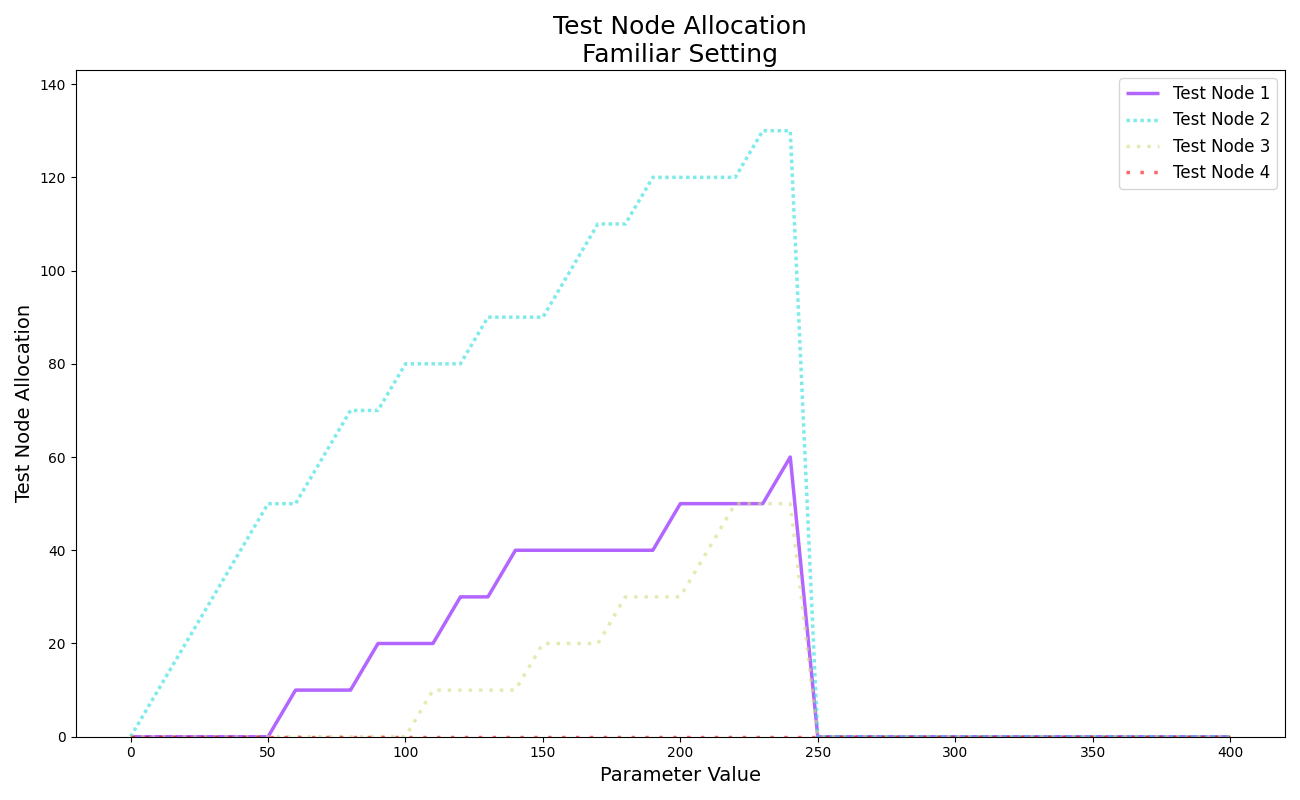
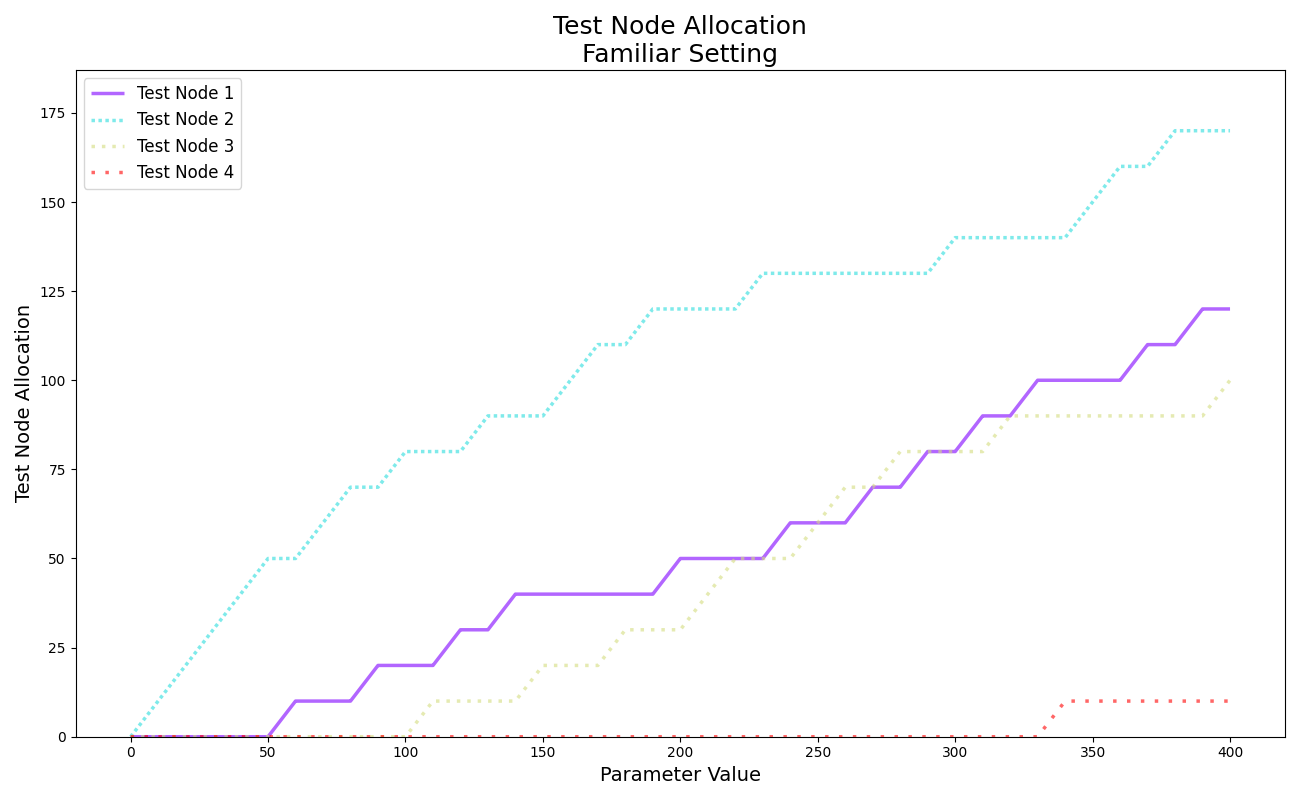
MS update

diff --git a/CASESTUDY_MStable.py b/CASESTUDY_MStable.py
@@ -244,7 +244,7 @@ print('Saved vs Rudi at 90: '+str(rudi90saved))
 print('Saved vs Unif at 180: '+str(unif180saved))
 print('Saved vs Rudi at 180: '+str(rudi180saved))
 
-# Prior variance: 4
+# Prior variance: 1
 fam_MS_alloc = np.load(os.path.join('casestudyoutputs', '15JUN', 'expl_MS_priorvar_1_alloc.npy'))
 fam_MS_util_avg = np.load(os.path.join('casestudyoutputs', '15JUN', 'expl_MS_priorvar_1_util_avg.npy'))
 util_avg_rudi_90 = np.load(os.path.join('casestudyoutputs', '15JUN', 'expl_MS_priorvar_1_util_avg_rudi_90.npy'))
@@ -269,6 +269,34 @@ print('Prior variance of 1, allocation at 90:\n'+str(fam_MS_alloc[:,9]))
 print('Saved vs Unif at 90: '+str(unif90saved))
 print('Saved vs Rudi at 90: '+str(rudi90saved))
 print('Prior variance of 1, allocation at 180:\n'+str(fam_MS_alloc[:,18]))
+print('Saved vs Unif at 180: '+str(unif180saved))
+print('Saved vs Rudi at 180: '+str(rudi180saved))
+
+# Prior variance: 4
+fam_MS_alloc = np.load(os.path.join('casestudyoutputs', '15JUN', 'expl_MS_priorvar_4_alloc.npy'))
+fam_MS_util_avg = np.load(os.path.join('casestudyoutputs', '15JUN', 'expl_MS_priorvar_4_util_avg.npy'))
+util_avg_rudi_90 = np.load(os.path.join('casestudyoutputs', '15JUN', 'expl_MS_priorvar_4_util_avg_rudi_90.npy'))
+util_avg_rudi_180 = np.load(os.path.join('casestudyoutputs', '15JUN', 'expl_MS_priorvar_4_util_avg_rudi_180.npy'))
+util_avg_unif_90 = np.load(os.path.join('casestudyoutputs', '15JUN', 'expl_MS_priorvar_4_util_avg_unif_90.npy'))
+util_avg_unif_180 = np.load(os.path.join('casestudyoutputs', '15JUN', 'expl_MS_priorvar_4_util_avg_unif_180.npy'))
+alloc90 = fam_MS_util_avg[9]
+alloc180 = fam_MS_util_avg[18]
+kInd = next(x for x, val in enumerate(util_avg_unif_90) if val > alloc90)
+unif90saved = round((alloc90 - util_avg_unif_90[kInd - 1]) / (util_avg_unif_90[kInd] - util_avg_unif_90[kInd - 1]) *\
+                    testint) + (kInd - 1) * testint
+kInd = next(x for x, val in enumerate(util_avg_unif_180) if val > alloc180)
+unif180saved = round((alloc180 - util_avg_unif_180[kInd-1]) / (util_avg_unif_180[kInd]-util_avg_unif_180[kInd - 1]) *\
+                    testint) + (kInd - 1) * testint
+kInd = next(x for x, val in enumerate(util_avg_rudi_90) if val > alloc90)
+rudi90saved = round((alloc90 - util_avg_rudi_90[kInd - 1]) / (util_avg_rudi_90[kInd] - util_avg_rudi_90[kInd - 1]) *\
+                    testint*5) + (kInd - 1) * testint*5
+kInd = next(x for x, val in enumerate(util_avg_rudi_180) if val > alloc180)
+rudi180saved = round((alloc180 - util_avg_rudi_180[kInd-1]) / (util_avg_rudi_180[kInd]-util_avg_rudi_180[kInd - 1]) *\
+                    testint*5) + (kInd - 1) * testint*5
+print('Prior variance of 4, allocation at 90:\n'+str(fam_MS_alloc[:,9]))
+print('Saved vs Unif at 90: '+str(unif90saved))
+print('Saved vs Rudi at 90: '+str(rudi90saved))
+print('Prior variance of 4, allocation at 180:\n'+str(fam_MS_alloc[:,18]))
 print('Saved vs Unif at 180: '+str(unif180saved))
 print('Saved vs Rudi at 180: '+str(rudi180saved))
 

diff --git a/CASESTUDY_modsens_fam_priorvar.py b/CASESTUDY_modsens_fam_priorvar.py
@@ -73,15 +73,15 @@ util.print_param_checks(paramdict) # Check of used parameters
 
 alloc, util_avg, util_hi, util_lo = sampf.get_greedy_allocation(csdict_fam, testmax, testint, paramdict, printupdate=True,
                                                                 plotupdate=False)
-'''
+''' 21-JUN
 [1, 1, 1, 1, 1, 0, 1, 1, 0,
- 0, 2, 1, 0, 2, ]
+ 0, 2, 1, 0, 2, 2, 1, 1, 0]
 [(0.09329232303723911, 0.09876902425167833), (0.16250226091160114, 0.16972868530750906), (0.2182779557617649, 0.22628418450541554),
 (0.26289669663960114, 0.27139877270639134), (0.305109385881436, 0.31403785559381614), (0.3408104273523289, 0.35035879147134885),
 (0.37674649787712466, 0.38640989564234074), (0.406031397196454, 0.41602849415754317), (0.43851351777062564, 0.448850073932874),
 (0.4649229923978533, 0.4756572715547529), (0.48927692537373146, 0.5004161692279674), (0.5124322644347563, 0.5237996339304827),
-(0.5354797928473836, 0.5470037811809696), (0.5589589380962681, 0.570611204709724), 
-]
+(0.5354797928473836, 0.5470037811809696), (0.5589589380962681, 0.570611204709724), (0.5842486952158443, 0.5967404110541981),
+(0.6048752732195584, 0.6174646012755871), (0.6304852914802674, 0.6436324285441632), (0.6472895037921063, 0.660363832098269)]
 '''
 
 # Store results
